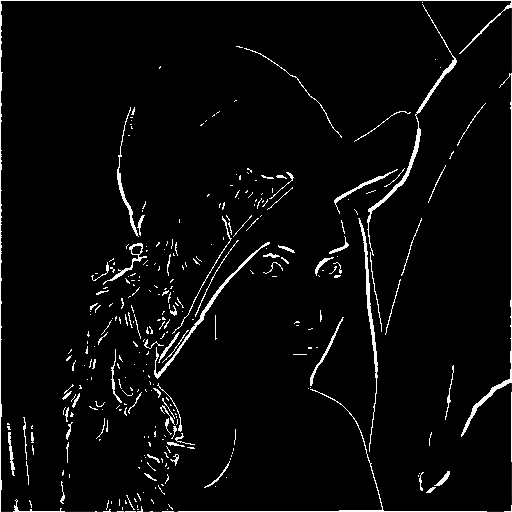
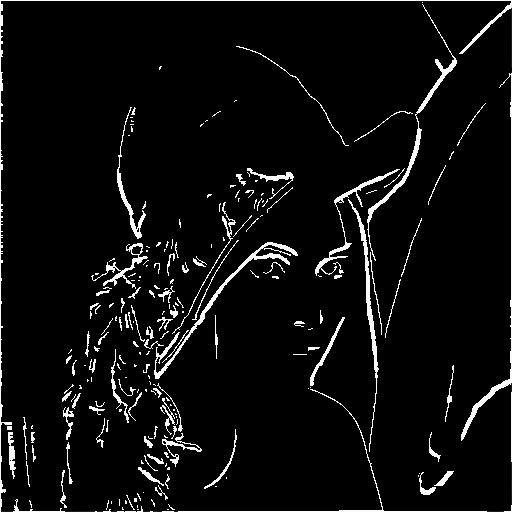
Fix canny bug
Fix canny bug

diff --git a/common/cv/canny.py b/common/cv/canny.py
@@ -115,7 +115,7 @@ def threshold(src, low, high):
     for i in range(1, rows-1):
         for j in range(1, cols-1):
             if src[i, j] > low and src[i, j] < high:
-                if np.max(src[i-1:i+1, j-1:j+1]) == 250:
+                if np.max(binary[i-1:i+1, j-1:j+1]) == 250:
                     binary[i, j] = 250
                 else:
                     binary[i, j] = 0
@@ -125,14 +125,14 @@ def Canny(src, low, high):
     gauss = Filter(src, k_gauss)
     _g, _r, _x, _y = CalGradient(gauss, k_robert_x, k_robert_y)
     limit = LimitNonMax(_g, _r, _x, _y)
-    canny = threshold(limit, 10, 40)
+    canny = threshold(limit, low, high)
     return canny
 
 if __name__ == '__main__':
     #print(Filter(src, k_gauss))
     #print(signal.convolve2d(src, k_gauss, 'same'))
     src = cv2.imread(sys.argv[1], cv2.IMREAD_GRAYSCALE)
-    canny = Canny(src, 10, 40)
+    canny = Canny(src, 20, 40)
     cv2.imwrite('canny.png', canny)
 
     '''
